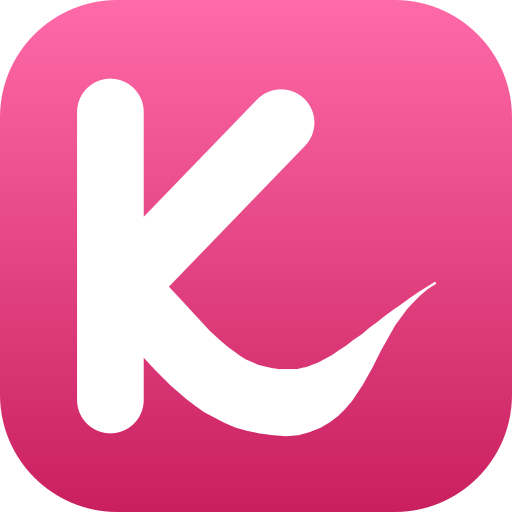
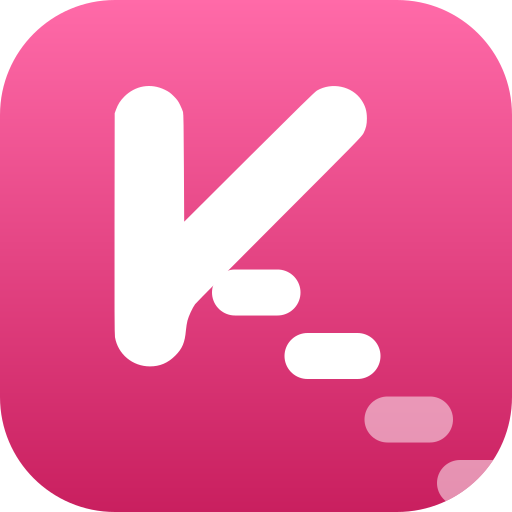
New app mark: a K whose leg is a pitch guide
Redraw the logo as a K whose leg is a karaoke pitch guide (two sung notes, two faded
upcoming ones) on the pink gradient tile, and regenerate the favicons and app icons
from it.

diff --git a/frontend/src/components/Logo.tsx b/frontend/src/components/Logo.tsx
@@ -2,23 +2,37 @@ import { useId } from 'react';
 import { cn } from 'src/lib/utils';
 
 /**
- * App mark: a bold K with a calligraphic swash leg, on a pink gradient tile.
+ * App mark: the KKTrip-style K whose leg is a karaoke pitch guide — two sung
+ * notes, two faded upcoming ones — on a pink gradient tile.
  * Keep in sync with public/favicon.svg.
  */
 export default function Logo({ className }: { className?: string }) {
   const id = useId();
+  const gradientId = `${id}-g`;
+  const clipId = `${id}-c`;
   return (
-    <svg viewBox="0 0 96 96" role="img" aria-label="KKaraoke" className={cn('size-10', className)}>
+    <svg viewBox="0 0 1024 1024" role="img" aria-label="KKaraoke" className={cn('size-10', className)}>
       <defs>
-        <linearGradient id={id} x1="48" y1="0" x2="48" y2="96" gradientUnits="userSpaceOnUse">
+        <linearGradient id={gradientId} x1="512" y1="0" x2="512" y2="1024" gradientUnits="userSpaceOnUse">
           <stop stopColor="#ff6aa8" />
           <stop offset="1" stopColor="#c91f5f" />
         </linearGradient>
+        <clipPath id={clipId}>
+          <rect width="1024" height="1024" rx="230" />
+        </clipPath>
       </defs>
-      <rect width="96" height="96" rx="22" fill={`url(#${id})`} />
-      <g transform="translate(-7.3 0)" fill="#fff">
-        <path d="M28 21V75M31 53L60 23" fill="none" stroke="#fff" strokeWidth="12.5" strokeLinecap="round" strokeLinejoin="round" />
-        <path d="M25.0 57.8L26.3 58.9L27.6 60.1L28.8 61.3L30.1 62.6L31.3 63.9L32.6 65.2L33.8 66.6L35.1 68.0L36.4 69.4L37.8 70.8L39.2 72.2L40.7 73.5L42.2 74.8L43.9 76.1L45.6 77.3L47.5 78.3L49.4 79.3L51.5 80.2L53.7 80.8L56.1 81.3L58.5 81.6L61.0 81.8L63.3 81.6L65.4 81.0L67.4 80.2L69.1 79.2L70.7 78.0L72.1 76.6L73.3 75.2L74.3 73.7L75.3 72.2L76.2 70.6L77.1 69.0L77.9 67.4L78.7 65.8L79.6 64.2L80.5 62.6L81.4 61.0L82.5 59.5L83.6 58.0L84.8 56.7L86.1 55.4L87.5 54.2L89.1 53.2L88.9 52.8L87.3 53.8L85.7 54.8L84.1 55.9L82.6 57.0L81.0 58.1L79.5 59.2L78.0 60.4L76.5 61.5L75.1 62.7L73.6 63.7L72.2 64.8L70.8 65.7L69.5 66.6L68.2 67.3L66.9 68.0L65.8 68.4L64.8 68.8L63.8 69.0L63.0 69.2L62.3 69.2L61.7 69.2L61.0 69.2L59.5 69.2L58.2 69.0L56.9 68.7L55.7 68.4L54.6 67.9L53.4 67.4L52.3 66.7L51.2 65.9L50.1 65.1L48.9 64.1L47.8 63.1L46.6 62.0L45.5 60.8L44.3 59.5L43.0 58.1L41.8 56.8L40.5 55.4L39.1 53.9L37.7 52.5L36.2 51.0L34.6 49.6L33.0 48.2Z" />
+      <g clipPath={`url(#${clipId})`}>
+        <rect width="1024" height="1024" fill={`url(#${gradientId})`} />
+        <path
+          fill="#fff"
+          d="M248.397 193.38C258.856 182.712 272.625 175.327 286.389 173.001C301.228 170.495 315.705 172.694 329.858 179.607C337.637 183.405 340.797 185.697 347.494 192.393C354.218 199.118 356.456 202.211 360.22 209.982C362.731 215.169 365.347 221.438 366.032 223.913C366.974 227.315 367.411 254.61 367.825 335.889L368.372 443.367L498.345 313.871C594.184 218.385 629.78 183.524 633.885 181.136C663.781 163.748 704.047 172.225 722.734 199.843C730.654 211.547 733.797 222.078 733.797 236.91C733.797 248.956 732.051 256.607 727.066 266.404C723.745 272.931 712.412 284.503 558.657 438.368C467.99 529.099 392.192 605.584 390.215 608.333C384.946 615.664 377.299 632.154 374.916 641.326C373.773 645.725 372.387 654.467 371.835 660.752C369.686 685.244 364.599 697.296 350.486 711.331C335.625 726.112 319.849 732.807 299.886 732.807C264.996 732.807 235.714 708.315 229.961 674.319C229.066 669.034 228.853 613.382 229.089 446.866L229.401 226.412L232.08 219.079C235.904 208.61 240.387 201.55 248.397 193.38Z"
+        />
+        <g fill="none" stroke="#fff" strokeWidth="92" strokeLinecap="round">
+          <path d="M470 585H555" />
+          <path d="M615 712H715" />
+          <path d="M775 839H860" opacity="0.5" />
+          <path d="M920 966H1010" opacity="0.5" />
+        </g>
       </g>
     </svg>
   );
